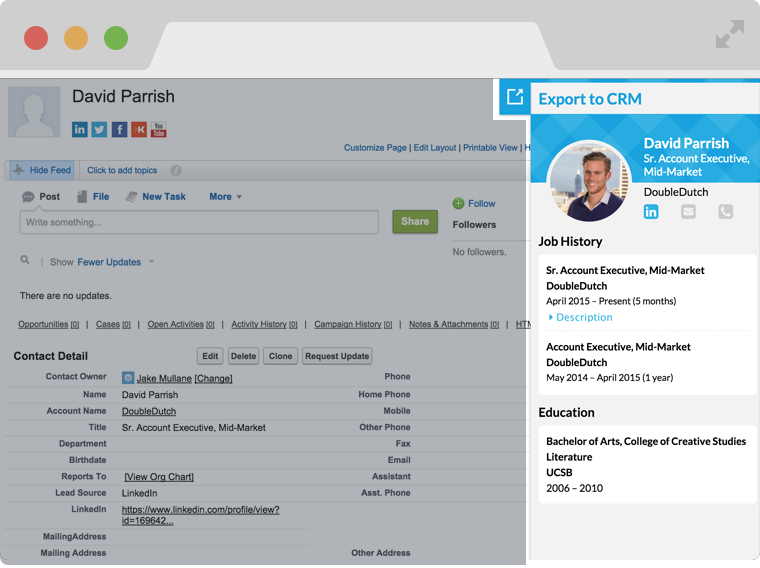
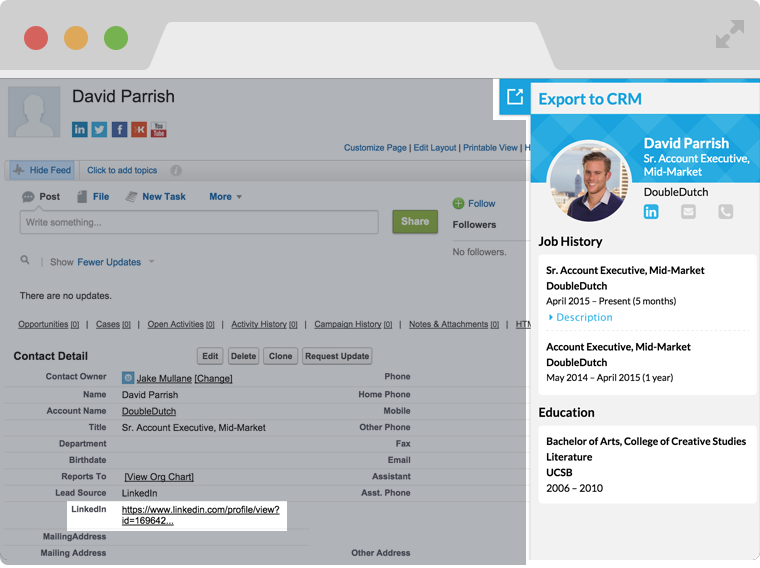
Better messaging for sidebar url

Changed region(s): [[0.0908, 0.868, 0.3934, 0.9577]]

diff --git a/index.html b/index.html
@@ -123,9 +123,10 @@
 		<hr style="border-top: 1px solid #1E3245;width:20%"/>
 		<section style="min-height:270px;background-color:white;">
 			<div class="container testimonialDiv">
+				<h1 class="sectionHeader">Preview LinkedIn profiles on any Contact or Lead page!</h1>
 				<div class="col-md-12 centered" style="margin-bottom:40px;">
 					<img src="./img/sidebar.png" class="exampleImage">
-					<br/><span class="sectionParagraphHome">Preview LinkedIn profiles on any Contact or Lead page!</span>
+					<br/><span class="sectionParagraphHome">Just add a LinkedIn url to your Contact or Lead</span>
 				</div>
 			</div>
 		</section>
